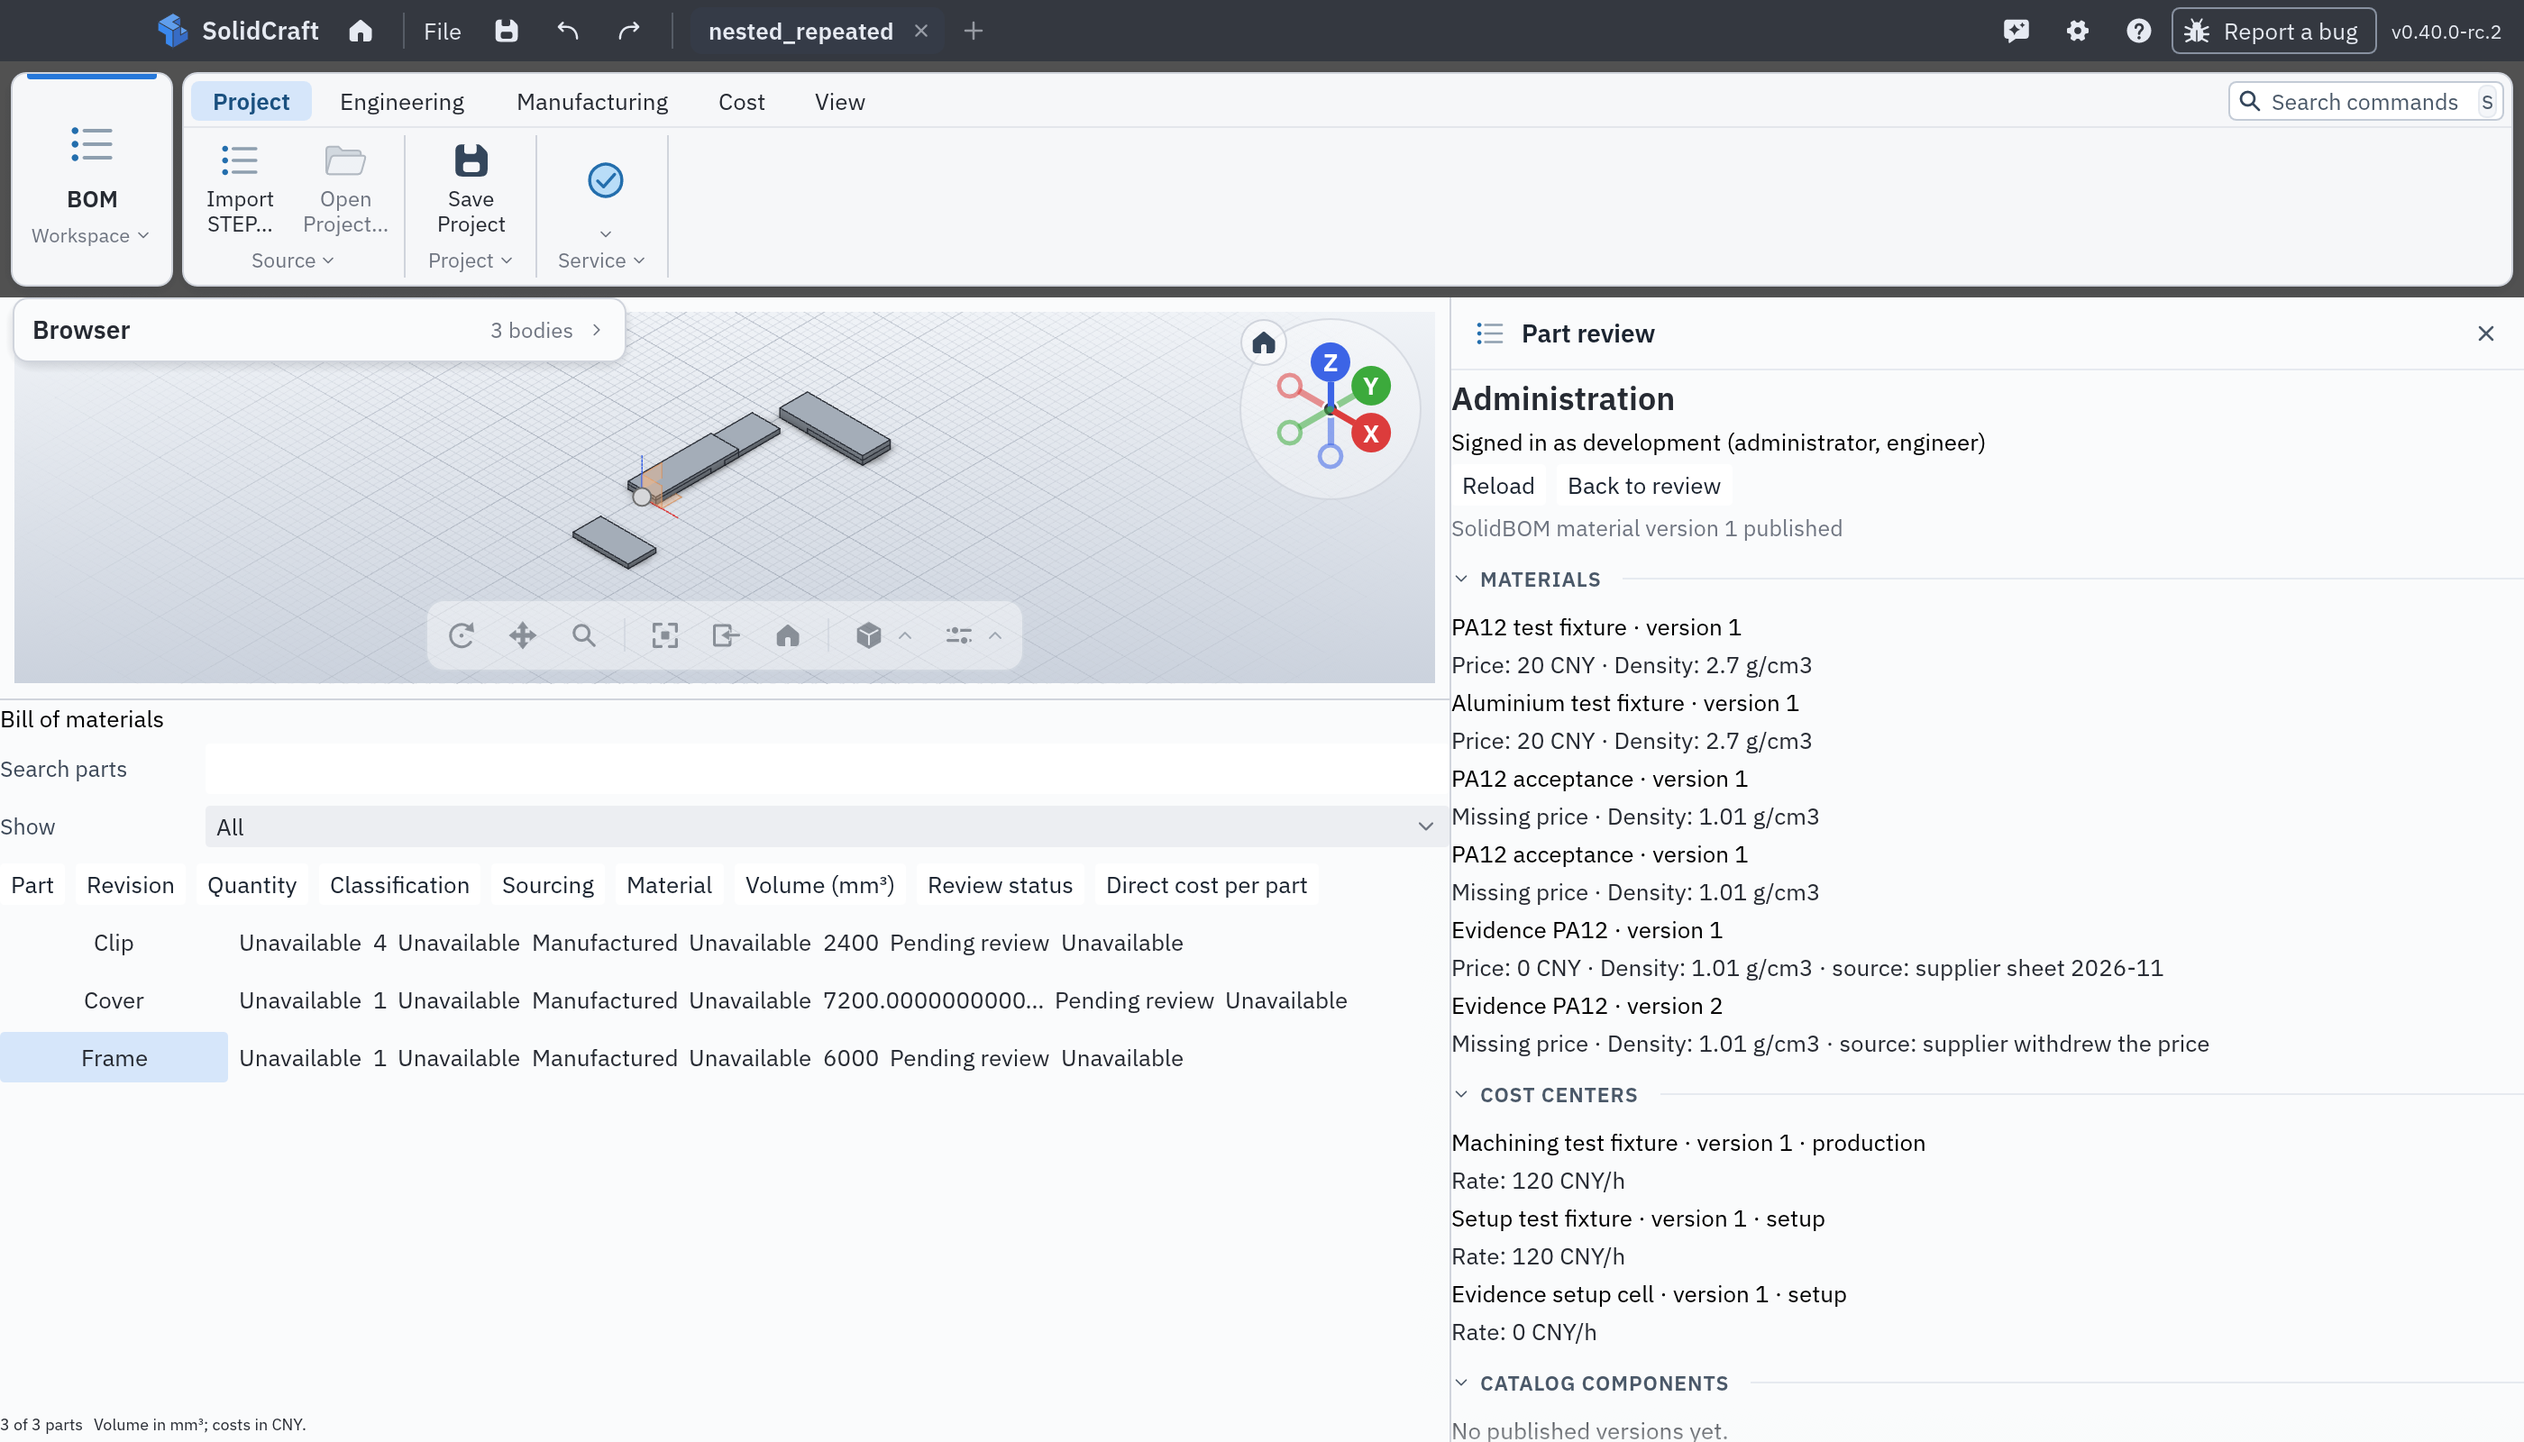
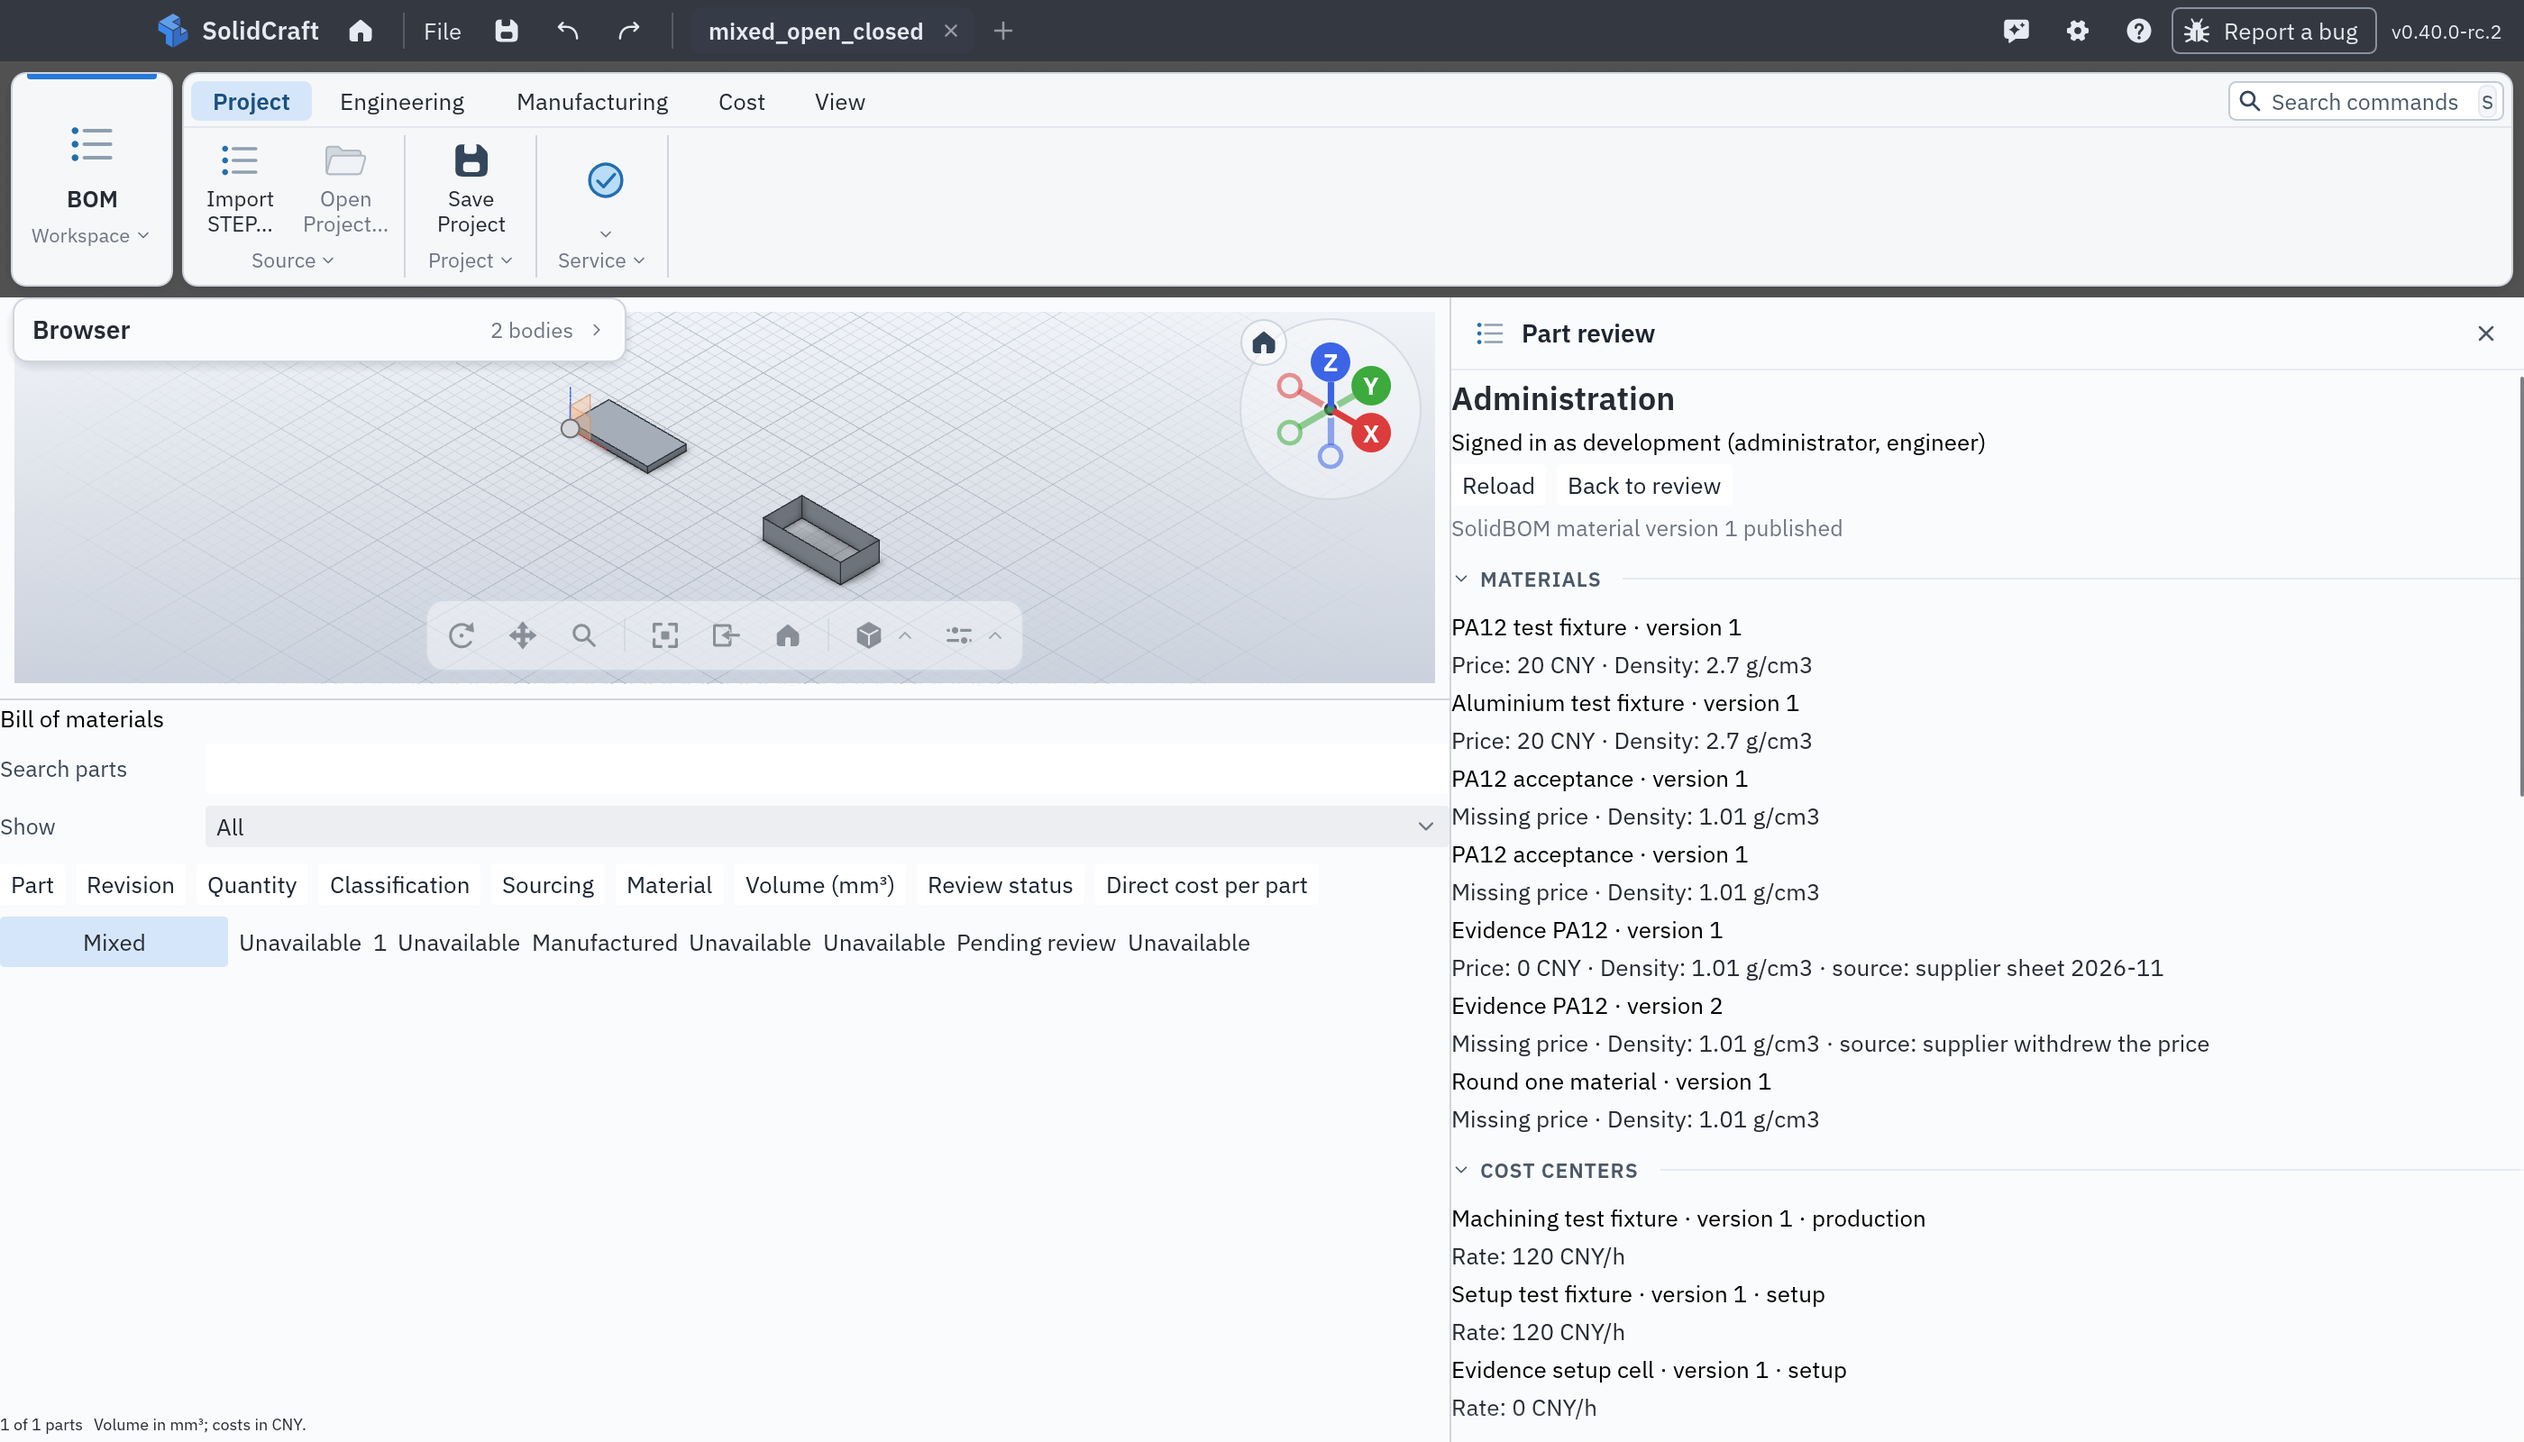
SB-09: refresh the after captures on the review-round-1 head

diff --git a/evidence/sb-09/README.md b/evidence/sb-09/README.md
@@ -9,12 +9,17 @@ All captures use the same 2800x1600 viewport, the light theme, and an opened syn
 | File | Revision | Identity | Shows |
 |---|---|---|---|
 | `before-bom-project-review.png` | base `3c355556b` | combined development token | BOM workspace and review inspector only; no shared-data administration surface exists. |
-| `after-admin-administration.png` | this branch | combined (Engineer+Administrator) | Administration surface: material and cost-center version chains with `Missing price` and explicit `Price: 0 CNY`, app configuration history, recent reference changes, publish forms. |
-| `after-engineer-bom.png` | this branch | Engineer only | The same reviewed project and workspace; no administration entry and no publish controls. |
+| `after-admin-administration.png` | publish/record branch, review-round-1 head | combined (Engineer+Administrator) | Administration surface: material and cost-center version chains with `Missing price` and explicit `Price: 0 CNY`, app configuration history, recent reference changes, publish forms. |
+| `after-engineer-bom.png` | publish/record branch, review-round-1 head | Engineer only | The same reviewed project and workspace; no administration entry and no publish controls. |
 | `after-admin-only-administration.png` | this branch | Administrator only | Administration surface opens without a project, because shared data is organization-level. |
 
 `api-evidence.json` is the recorded service response for the permission matrix, the version
 publishing/retry/conflict run, explicit-zero versus missing prices, and the refused app cost
 configurations. It contains no token, no database path and no customer data.
+
+The review-round-1 head refreshed the two after captures: the material selector now labels every
+version with its number and price, and a publish form keeps its draft until the service confirms
+the request. The round-1 selector and form-retention behaviour is covered by UI tests rather than a
+static capture.
 
 No generated review media is part of the SB-09 pull request branch.
